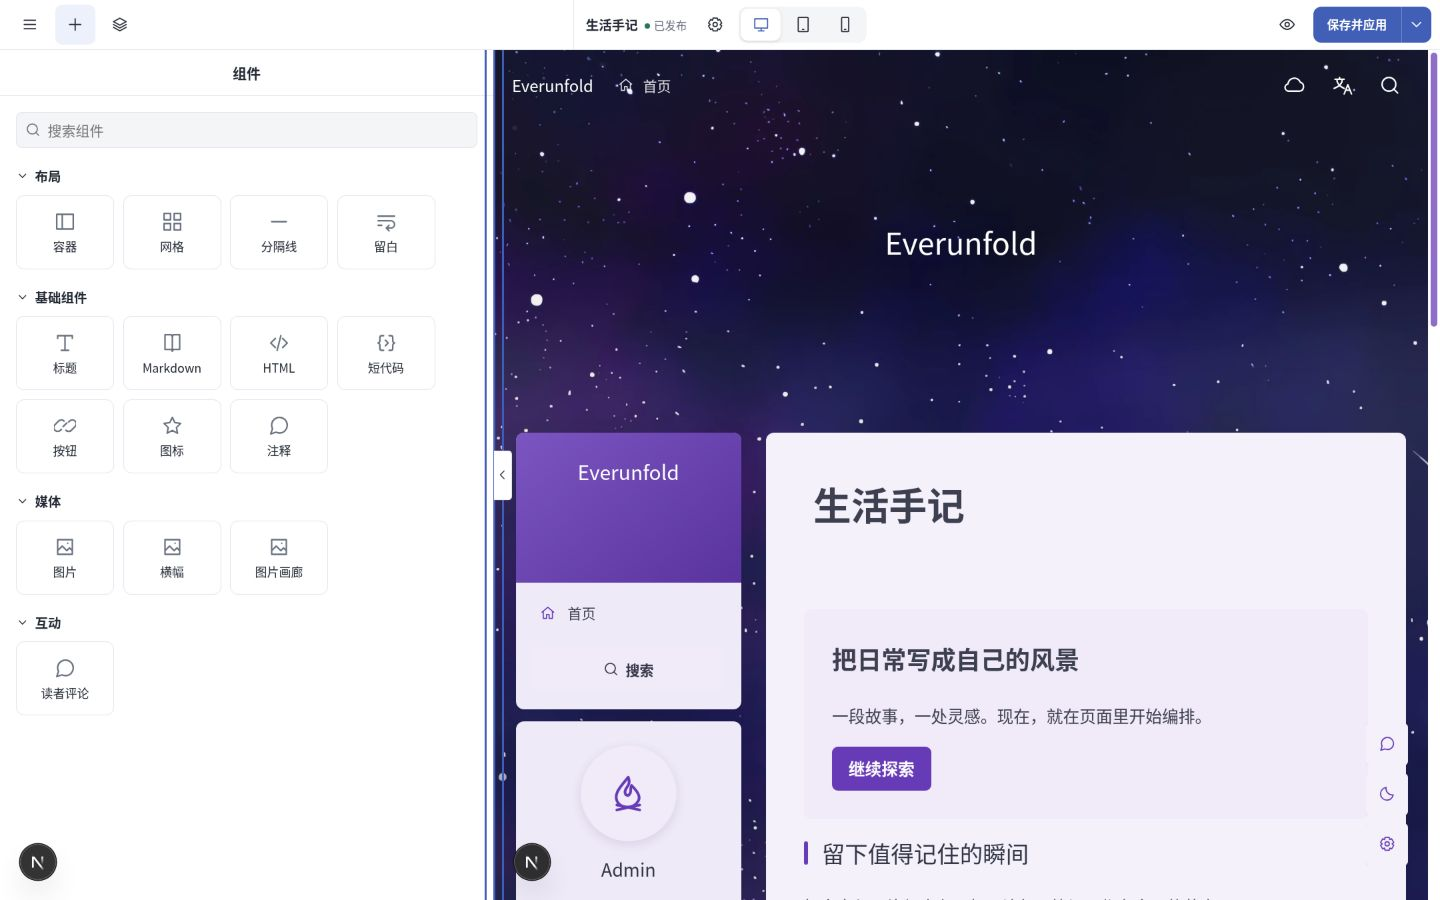
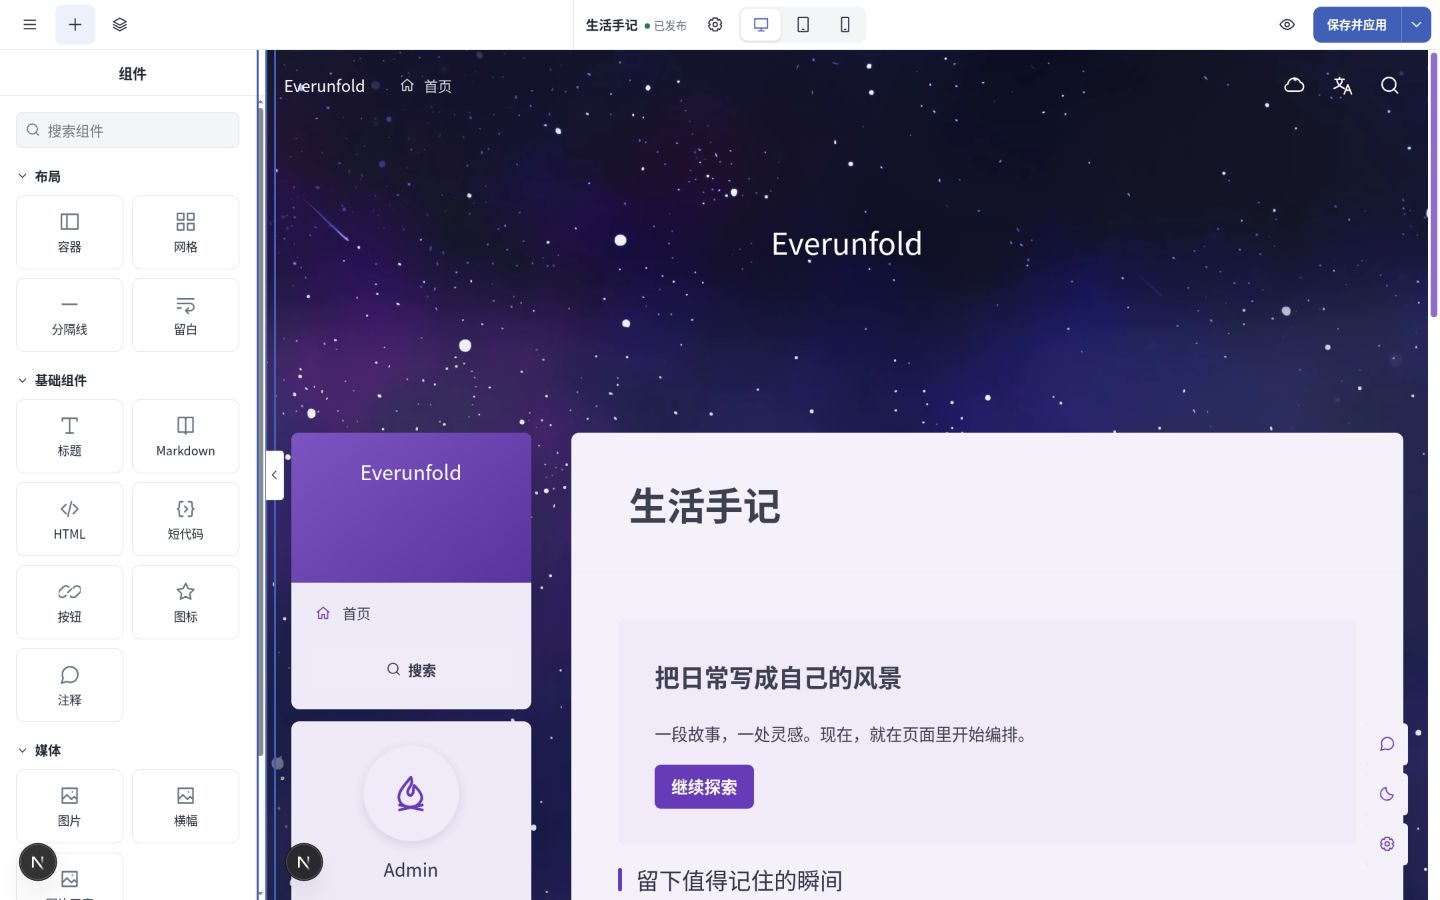
让组件卡片均分侧栏余宽

diff --git a/src/themes/argon/admin/builder/editor.module.css b/src/themes/argon/admin/builder/editor.module.css
@@ -33,7 +33,7 @@
 }
 .paletteGrid {
   display: grid;
-  grid-template-columns: repeat(auto-fill, min(98px, 100%));
+  grid-template-columns: repeat(auto-fill, minmax(min(98px, 100%), 1fr));
   gap: 9px;
 }
 .paletteItem {

diff --git a/docs/handoff/STATUS.md b/docs/handoff/STATUS.md
@@ -4,7 +4,7 @@
 
 - 「全宽无背景」页面标题去掉默认底边框。浏览器确认实时预览及公开页均无标题横线，普通全宽和正文中的分隔元素保留原样。
 - 页面源码编辑区在左栏中铺满。桌面分隔线可拖动或用方向键调整宽度，窄屏沿用抽屉。隔离浏览器实测了宽度调整、HTML/CSS/JavaScript 标签、实时更新和 390 像素源码区。[验收截图](../design/live-source-resize.jpg)
-- 组件库卡片固定为 98px，侧栏加宽时在各组内自动重排。桌面最窄宽度仍有两列，拉宽后验收四列。390 像素手机抽屉保持两列且无横向溢出。[组件库截图](../design/component-card-reflow.jpg)
+- 组件库以 98px 为增列阈值。侧栏放不下新一列时，现有列均分余宽，各分组卡片等宽。桌面实测两列随栏加宽，拉宽后自动排成四列。390 像素手机抽屉保持两列且无横向溢出。[组件库截图](../design/component-card-reflow.jpg)
 - 布局改动通过 399 项前端测试。组件库样式通过格式检查并补做浏览器验收。
 
 ## 画布区块编辑器复用与设置间距
